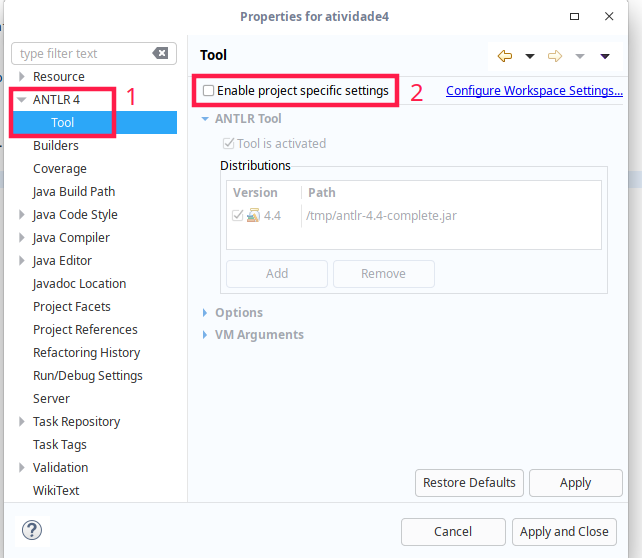
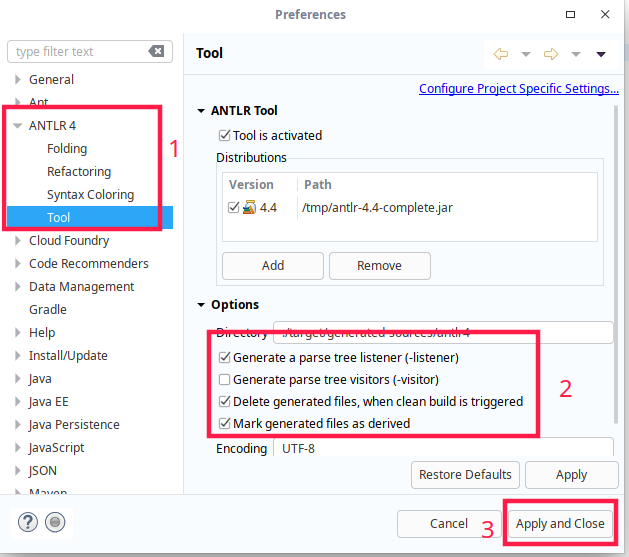
ajustes na configuração do visitor

Changed region(s): [[0.0, 0.0, 1.0, 1.0], [0.3021, 0.4273, 0.9062, 0.8241], [0.3625, 0.0, 0.6041, 0.061]]

diff --git a/Configuração para a atividade 4.md b/Configuração para a atividade 4.md
@@ -53,20 +53,19 @@ Por fim click em **Restart Now**
 
 Configurando o plugin antlr4 no eclipse para gerar os arquivos java com o padrão de projeto visitor, ou seja, gerar os arquivos lexer, parser e visitor que são necessários na atividade 4.
 
-1. Click com o botão direito na pasta do projeto
-2. Click em Propeties 
+1. No menu superior click na opção **window** o botão direito na pasta do projeto
+2. Click em **Propeties**
 
-![](https://raw.githubusercontent.com/jailson-dias/aula-antlr/master/imagens/atividade4/import-antlr-1.png)
+![](https://raw.githubusercontent.com/jailson-dias/aula-antlr/master/imagens/atividade4/visitor-1.png)
 
 Em seguida, na janela que abrir, faça:
 1. No menu lateral esquerdo selecione a opção **ANTLR 4** e dentro dela a opção **Tool**
-2. Marque o checkbox **Enable project specific settings** em **2**
+2. Click no menu **Options** e desmarque o checkbox **Generate a parse tree listener (-listener)** e marque o checkbox **Generate a parse tree visitors (-visitor)** como pode ser visto em **2**
+3. Click em **Apply and close**
 
 ![](https://raw.githubusercontent.com/jailson-dias/aula-antlr/master/imagens/atividade4/visitor-2.png)
 
-Marcando o checkbox vai ser possível editar as opções do plugin, assim faça:
-1. Click no menu **Options** e desmarque o checkbox **Generate a parse tree listener (-listener)** e marque o checkbox **Generate a parse tree visitors (-visitor)** como pode ser visto em **1**
-2. Click em **Apply and close**
+Na janela que abrir click em **yes**
 
 ![](https://raw.githubusercontent.com/jailson-dias/aula-antlr/master/imagens/atividade4/visitor-3.png)
 
